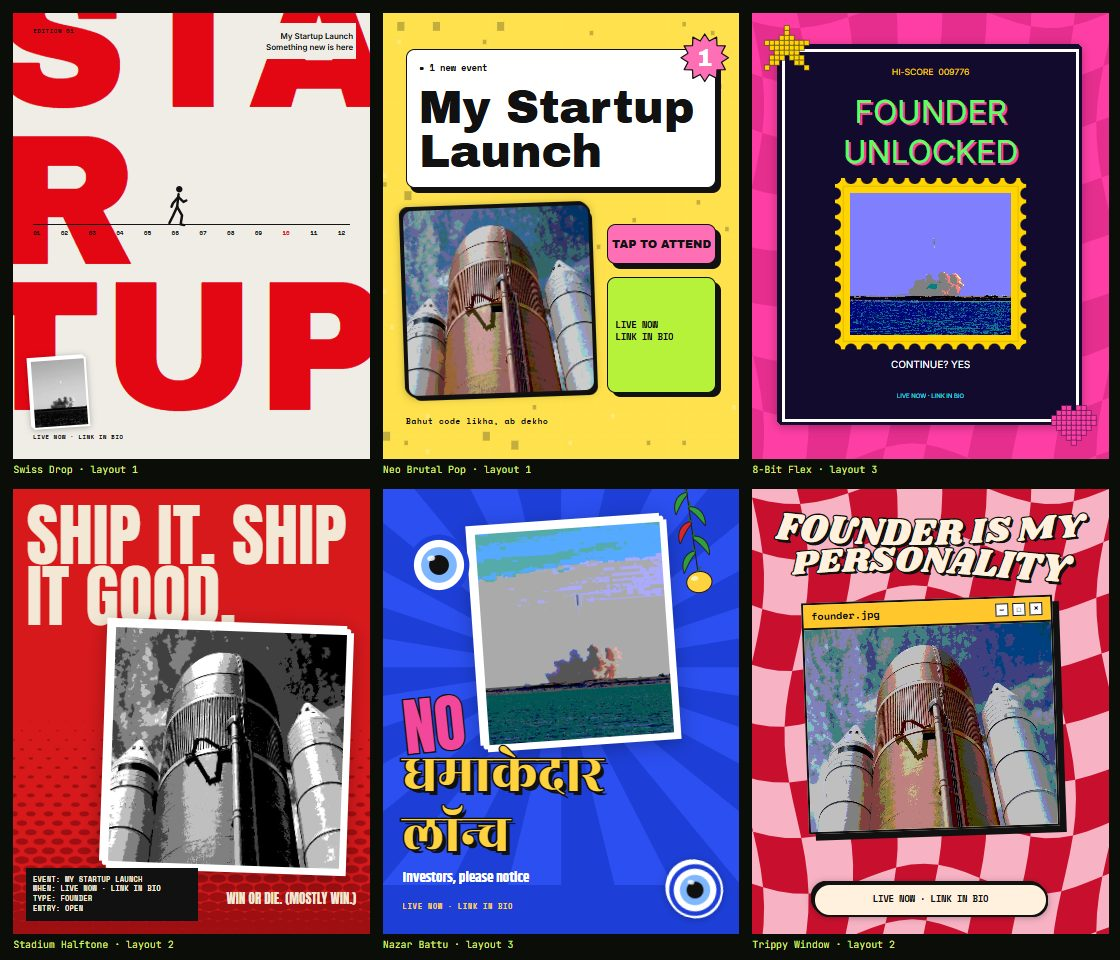
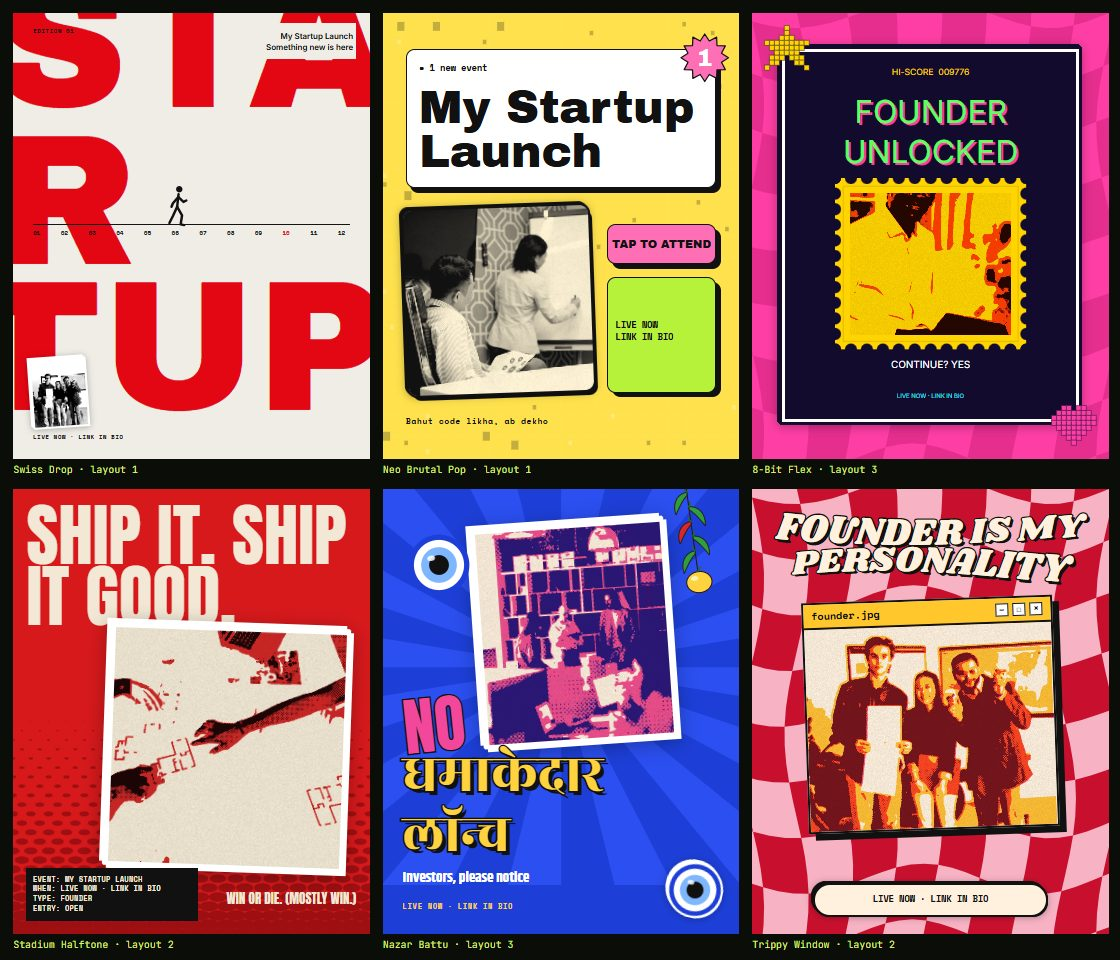
REVIEW round 4: gate 55/60, screenshots, preview URL

diff --git a/REVIEW.md b/REVIEW.md
@@ -1,7 +1,7 @@
 # Kiwiw `juice-v2` — overnight REVIEW
 
 Branch: `juice-v2` (main and production untouched).
-Preview: **https://kiwiw-mksvgetnh-kartavyaas-projects.vercel.app**
+Preview: **https://kiwiw-msntoc21w-kartavyaas-projects.vercel.app**
 (Vercel protects previews on the hobby plan, so log in to Vercel to view it. Production at kiwiw.vercel.app is unchanged.)
 
 > Status: all six phases done and committed (one commit per phase). Typecheck and build pass. Zero console errors at 1366×768, 1920×1080 and 390px.
@@ -110,7 +110,7 @@ One input, six posters, no API key. The parser splits the line into headline, da
 
 # Round 3: Style DNA, effects engine, Juice It 2.0 (overnight, 3 Nov)
 
-Preview: **https://kiwiw-mksvgetnh-kartavyaas-projects.vercel.app** (Vercel preview, behind login; production untouched, main untouched).
+Preview: **https://kiwiw-msntoc21w-kartavyaas-projects.vercel.app** (Vercel preview, behind login; production untouched, main untouched).
 
 ## Phase 1 · Style DNA
 `STYLE_DNA.md` defines 10 recipes taken from your board: **Nazar Battu, Tapri Print, Stadium Halftone, Brutal Grid, Swiss Drop, Trippy Window, Neo Brutal Pop, 8-Bit Flex, Sticker Bomb, Glossy Bloom**. Each recipe has a palette, a font pairing, a layout grammar, effects, stickers, a copy tone, 3 headlines and a never-rule. I borrowed techniques only: no celebrity, club, car brand, soft-drink brand or character from the board appears anywhere. Photos are 29 Pexels shots, bundled and credited in LICENSES.md. Six new Google Fonts: Rozha One, Yatra One, Khand, Press Start 2P, Shrikhand, Bagel Fat One.
@@ -198,3 +198,50 @@ This was done in the previous run: 56px rail, tabs, chips, masonry cards, page s
 3. Cutout with real subject masking (background removal) for the Stadium and Sticker Bomb recipes.
 4. A recipe editor: tweak a recipe's palette and fonts and save it as "My DNA".
 5. An animated export (MP4 or GIF) of the kiwi burst plus the chosen poster, for LinkedIn.
+
+---
+
+# Round 4: Riso, photos, Glossy rework, collisions, landing, Gemini (3 Nov)
+
+Preview: **https://kiwiw-msntoc21w-kartavyaas-projects.vercel.app** (behind Vercel login; production and main untouched).
+
+**Juice It quality gate: 55/60** (up from 49). The 5 that still fail:
+- 8-Bit Flex: the fest photo reads as mush.
+- Swiss Drop: "HIRIN" and "DIW/ALI" crop awkwardly with long words.
+- Tapri Print: a washed-out hiring photo, and a muddy teal diya photo.
+
+Sheets: `docs/review/juice-gate/`.
+
+1. **Riso replaces posterize.** Two or three flat inks from the recipe palette, misregistered by 1–2px, with halftone dots in the shadows and paper grain. Every layout and hero that used posterize was re-rendered. Dark photos are auto-brightened before any effect, which fixes the diya photo. Neo Brutal Pop's small photos use a clean ink duotone instead, because Riso turned them to mush at that size.
+2. **Glossy Bloom is premium now.**
+   - Type: 3D bubble lettering (ink extrusion, gradient body, inner specular highlight, rim light, soft shadow).
+   - Photos and stickers: photos sit in rounded glossy cards, with new chrome sparkle, heart and bubble stickers.
+   - Backgrounds: cream or deep plum.
+
+   After two critique rounds it holds up against Nazar Battu, so **it stays in Juice It** (logged in STYLE_DNA.md).
+3. **Photo relevance.**
+   - **94 bundled Pexels photos**, tagged by topic: food, chai, crowd, fest, music, office, laptop, gym, wedding, diwali, cake, podcast, startup, city and abstract.
+   - Juice picks by keyword. A line that matches nothing gets an **abstract texture, never an unrelated photo**.
+   - I removed one photo of a child.
+4. **Collision check.** `src/dna/collide.ts` measures each text's real glyph box and moves or shrinks any sticker or shape covering it. It runs on every Juice result and every hero. Giant decorative letters and the Swiss walker are allowed to overlap.
+   - Specific fixes: the Lift or Die ✕, the JU/NE label and the NE line break, the Clickbait arrow, and tape over headlines.
+   - All 28 templates are now collision-free.
+5. **Landing.**
+   - The hero's **Juice it now bursts inline**: a kiwi splits under the hero and six posters fan out of the cut. There's no overlay anymore.
+   - Style DNA cards show your line as a **real mini poster by default**, and a big rotating poster fills the header's right side.
+6. **Gemini copy.** `api/juice-copy.js` (a Vercel function) reads `GEMINI_API_KEY` on the server only. With no key or on any error it returns 204, and Juice It silently keeps the built-in copy. Nothing Gemini-related is in the browser bundle. `.env.example` has an empty `GEMINI_API_KEY=`.
+
+**Verification:** `tsc` is clean and the build passes. On the production build, the landing hero, inline burst, Style DNA section and editor showed **0 console errors** at 1366×768, 1920×1080 and 390px.
+
+![Best 12](docs/review/juice-best12.jpg)
+
+| Hero burst 1366 | Style DNA 1366 | Burst 390 | Style DNA 390 |
+| --- | --- | --- | --- |
+| ![](docs/review/v4-1366-burst.png) | ![](docs/review/v4-1366-dna.png) | ![](docs/review/v4-390-burst.png) | ![](docs/review/v4-390-dna.png) |
+
+![Template wall](docs/review/templates-wall.png)
+
+**Still rough:**
+- The 5 gate fails listed above.
+- The Riso render runs on the CPU, so a very large upload takes a moment.
+- Gemini is untested against a real key. I tested a mocked response and the no-key path.
